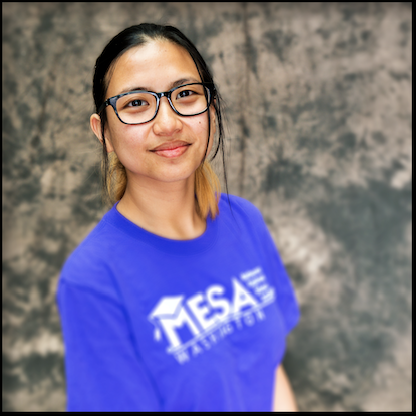
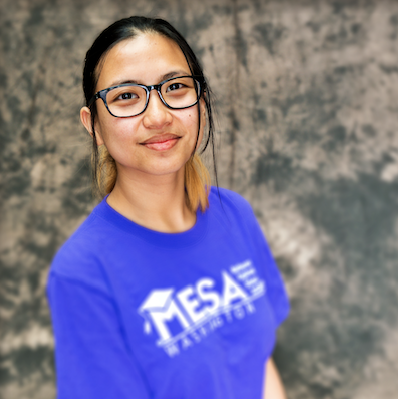
change pic again

diff --git a/index.html b/index.html
@@ -52,7 +52,7 @@
     <!-- Header -->
     <header class="masthead bg-primary text-white text-center">
       <div class="container">
-        <img class="img-fluid mb-5 d-block mx-auto" src="Chuan.PNG" alt="">
+        <img class="img-fluid mb-5 d-block mx-auto" src="Chuan1.PNG" alt="">
         <h1 class="text-uppercase mb-0">Chuan-Li Chang</h1>
         <hr class="star-light">
         <h2 class="font-weight-light mb-0">IT Network Engineer</h2>
@@ -198,7 +198,7 @@
               <h2 class="text-secondary text-uppercase mb-0">Thimble Breakout</h2>
               <hr class="star-dark mb-5">
               <img class="img-fluid mb-5" src="assets/img/portfolio/cabin.png" alt="">
-              <p class="mb-5">Joined MakerSummit as a community member and won first place under ------ category.</p>
+              <p class="mb-5">Joined MakerSummit as a community member and won first place under Gizmos category.</p>
               <a class="btn btn-primary btn-lg rounded-pill portfolio-modal-dismiss" href="#">
                 <i class="fa fa-close"></i>
                 Close Project</a>
